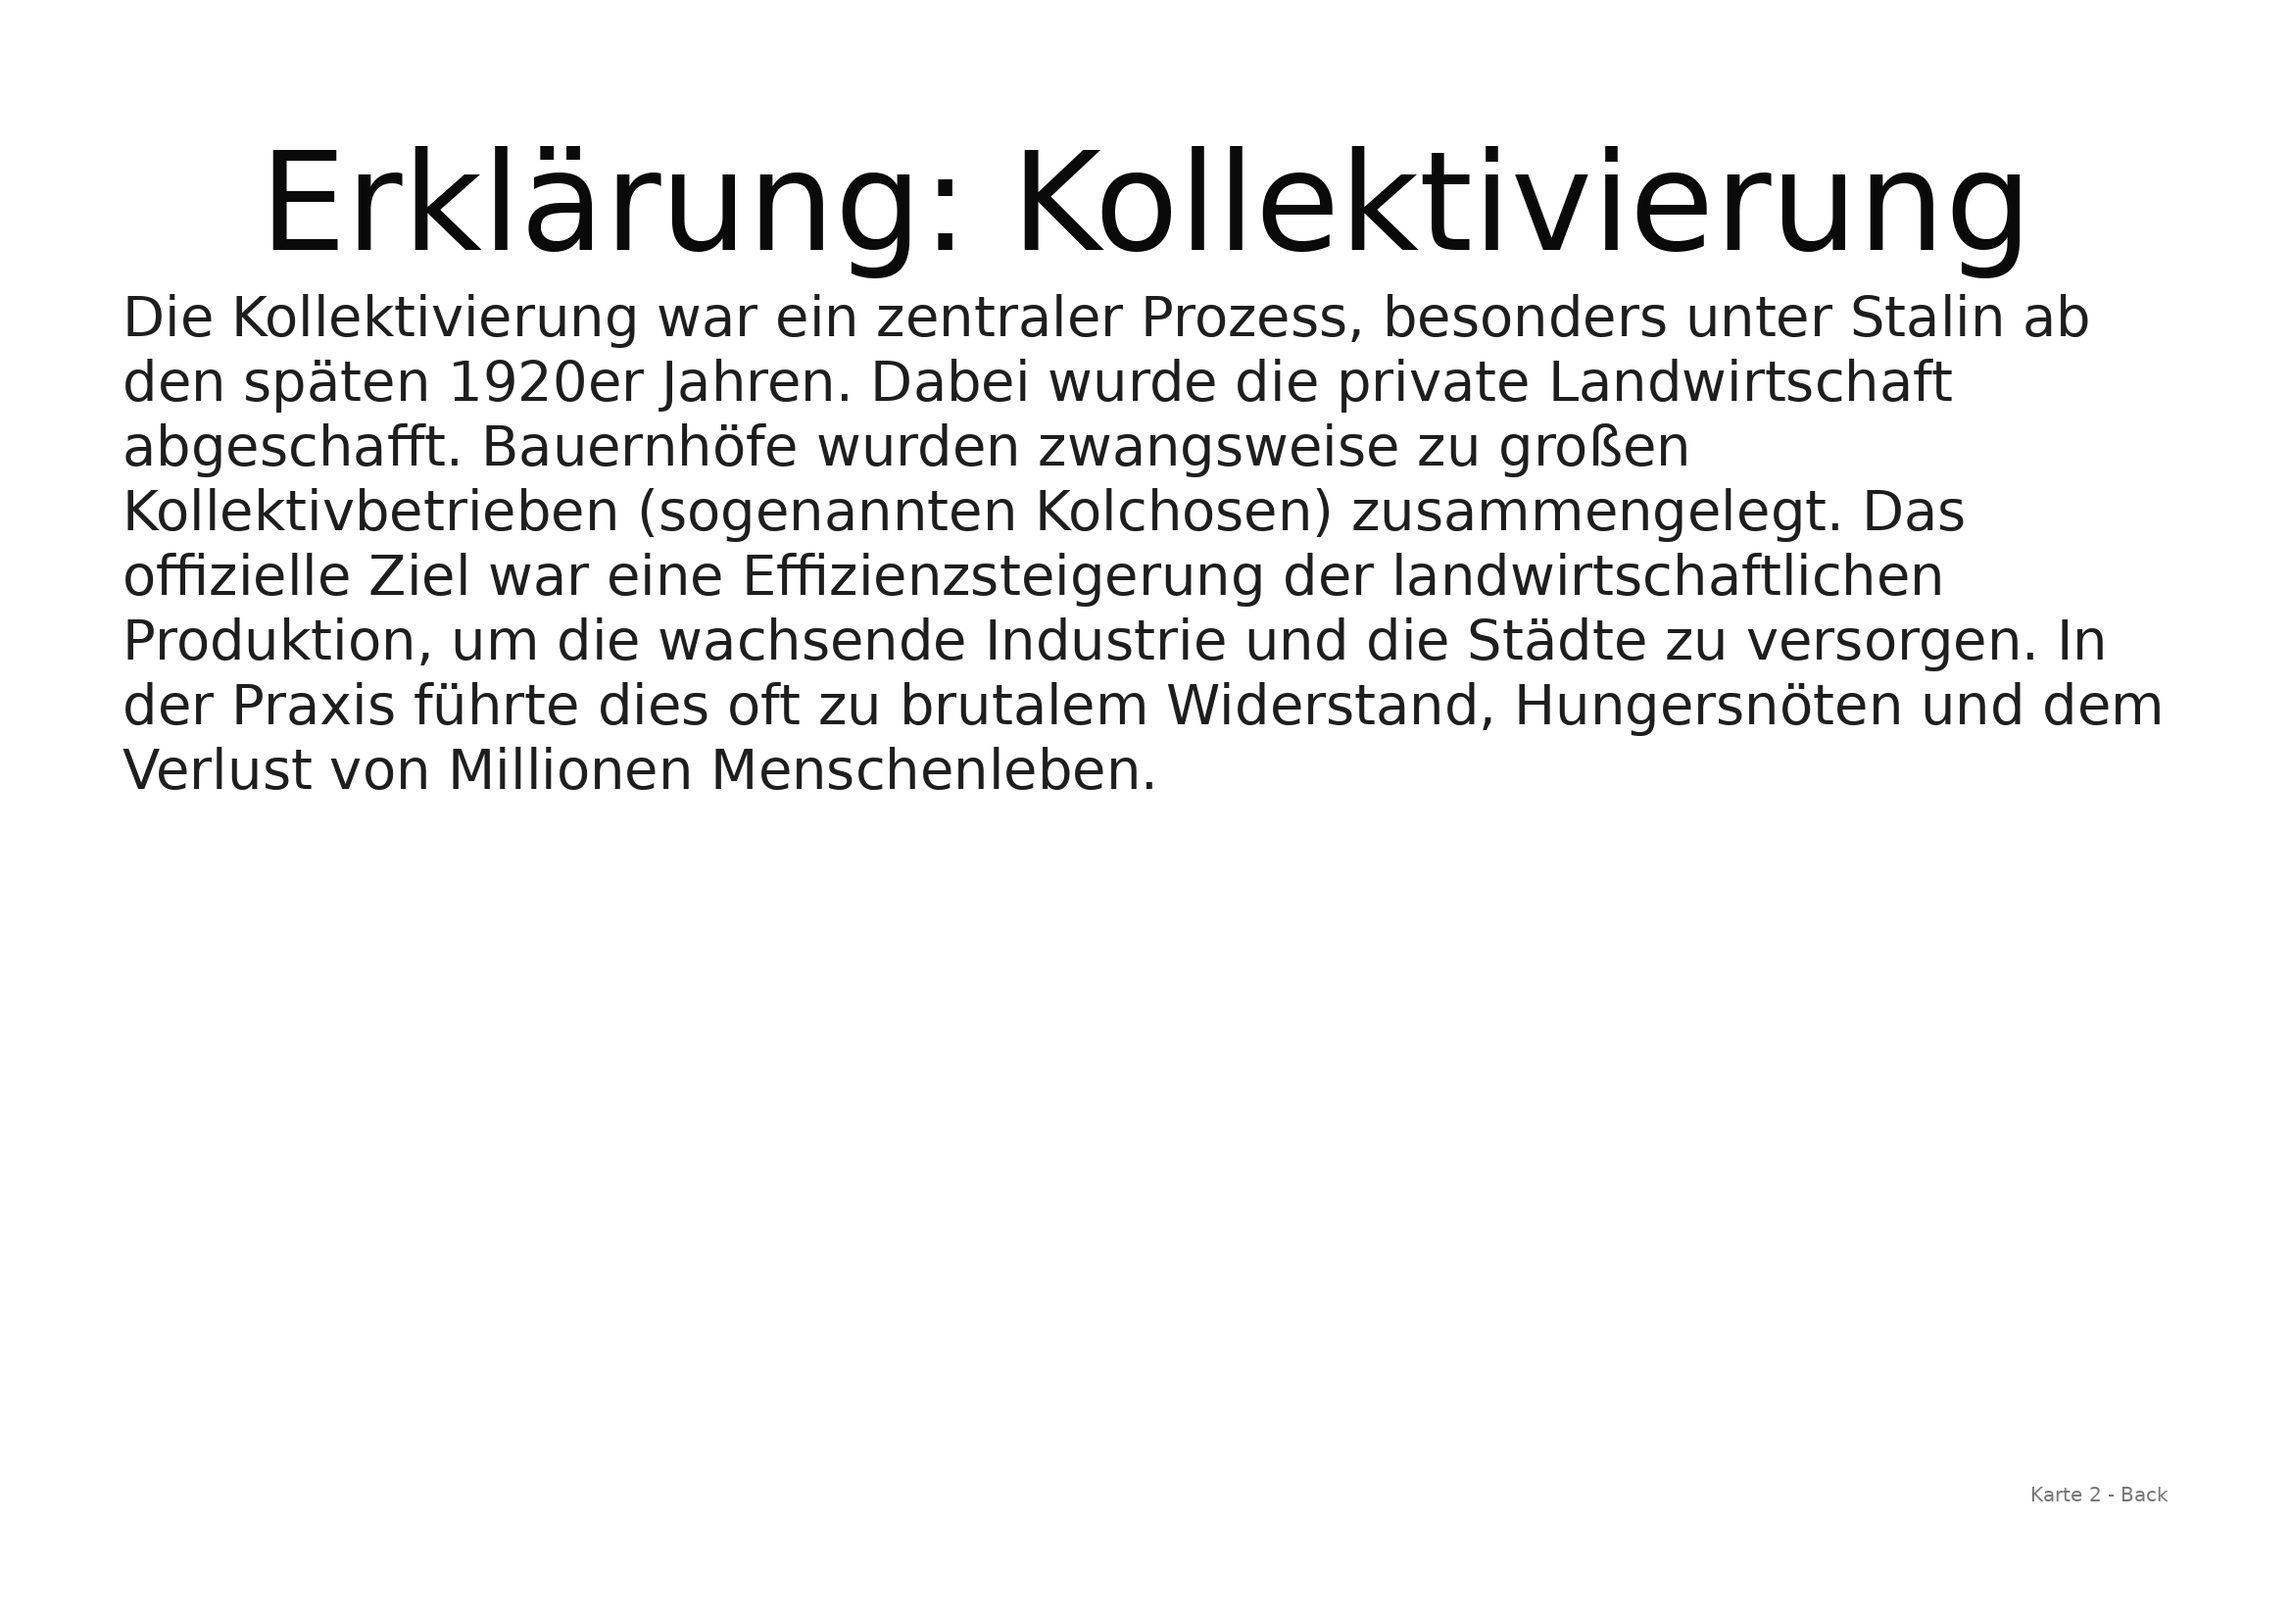
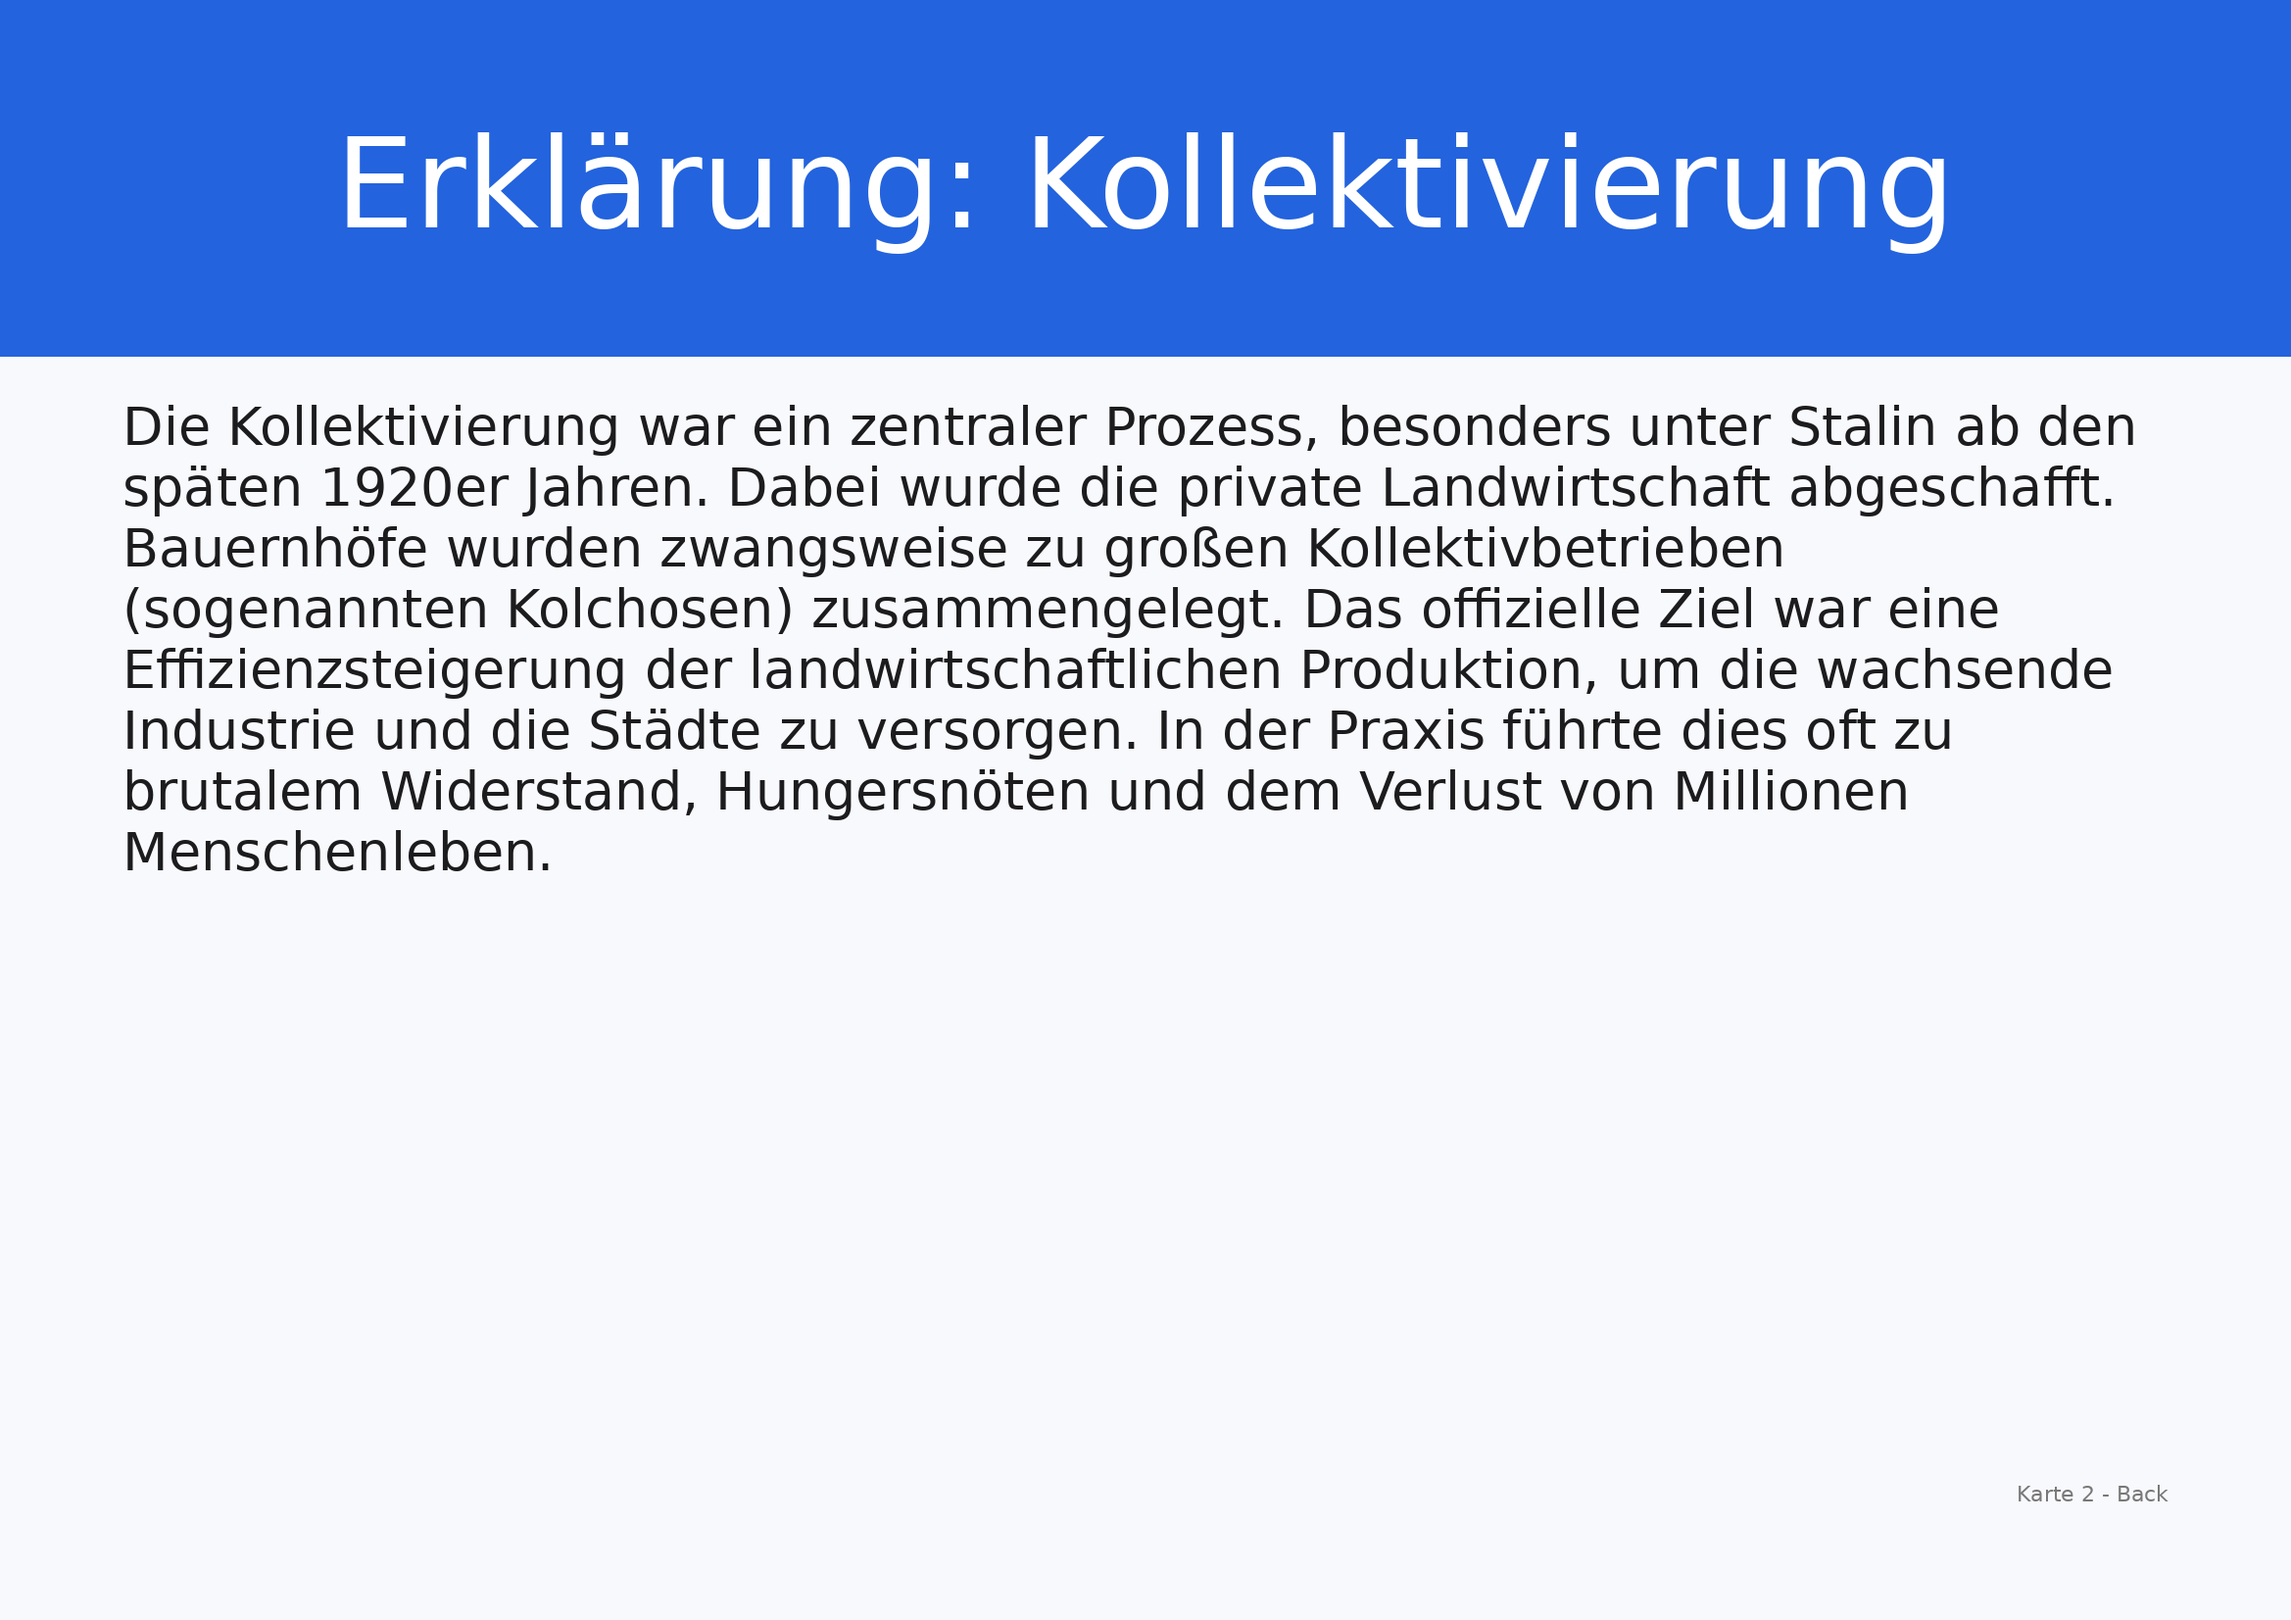
Improve card design with modern color scheme and centered layout

Changed region(s): [[0.0, 0.0, 1.0, 0.5554], [0.8743, 0.8947, 0.9367, 0.9256]]

diff --git a/Main.py b/Main.py
@@ -48,6 +48,13 @@ SHEET_PAGE_SIZE = IMG_SIZE  # für Konsistenz: gleiche Seitengröße wie Einzelk
 SINGLE_SUBDIR = 'single'
 SHEETS_SUBDIR = 'sheets'
 
+# Designfarben (sanftes, modernes Layout)
+BACKGROUND_COLOR = (248, 249, 252)   # leichtes Off-White
+ACCENT_COLOR = (35, 99, 221)          # Blau für Kopfzeile
+TITLE_TEXT_COLOR = (255, 255, 255)    # Weiß in der Kopfzeile
+BODY_TEXT_COLOR = (28, 28, 30)        # fast schwarz
+MUTED_TEXT_COLOR = (120, 120, 120)    # Footer/Hinweise
+
 # ====== Utilities ======
 def sanitize_text(s):
     if not s: return s
@@ -207,24 +214,34 @@ def wrap_by_width(draw, text, font, max_w):
 
 # ====== Renderer (uses truetype if available; if not, prints instructions) ======
 def render_front(struct, idx, fonts):
-    img = Image.new('RGB', IMG_SIZE, 'white'); draw = ImageDraw.Draw(img)
+    img = Image.new('RGB', IMG_SIZE, BACKGROUND_COLOR); draw = ImageDraw.Draw(img)
     title_font, body_font, small_font = fonts
     x, y = MARGIN, MARGIN
     content_w = IMG_SIZE[0] - 2*MARGIN
+    # Kopfzeile
+    header_h = max(120, int(IMG_SIZE[1] * 0.22))
+    draw.rectangle([0,0, IMG_SIZE[0], header_h], fill=ACCENT_COLOR)
     if struct['title']:
         lines = wrap_by_width(draw, struct['title'], title_font, content_w)
+        ty = int(header_h/2)
+        total_h = 0
+        tmp_sizes = []
         for ln in lines:
             w, h = measure_text(draw, ln, title_font)
-            draw.text(((IMG_SIZE[0]-w)//2, y), ln, font=title_font, fill=(10,10,10))
-            y += int(h * 1.1)
-        y += 40
+            tmp_sizes.append((ln,w,h))
+            total_h += int(h*1.1)
+        cur_y = ty - total_h//2
+        for ln, w, h in tmp_sizes:
+            draw.text(((IMG_SIZE[0]-w)//2, cur_y), ln, font=title_font, fill=TITLE_TEXT_COLOR)
+            cur_y += int(h*1.1)
+    y = header_h + 40
     if struct['bullets']:
         for i,b in enumerate(struct['bullets'], start=1):
             prefix = f"{i}. "
             wrapped = wrap_by_width(draw, b, body_font, content_w-80)
             for j, ln in enumerate(wrapped):
                 txt = prefix + ln if j==0 else ' ' * len(prefix) + ln
-                draw.text((x,y), txt, font=body_font, fill=(30,30,30))
+                draw.text((x,y), txt, font=body_font, fill=BODY_TEXT_COLOR)
                 _, h = measure_text(draw, txt, body_font)
                 y += int(h * 1.2)
             y += 22
@@ -232,32 +249,42 @@ def render_front(struct, idx, fonts):
         for p in struct['paragraphs']:
             wrapped = wrap_by_width(draw, p, body_font, content_w)
             for ln in wrapped:
-                draw.text((x,y), ln, font=body_font, fill=(30,30,30))
+                draw.text((x,y), ln, font=body_font, fill=BODY_TEXT_COLOR)
                 _, h = measure_text(draw, ln, body_font)
                 y += int(h * 1.2)
             y += 22
     footer = f'Karte {idx} - Front'
     fw, fh = measure_text(draw, footer, small_font)
-    draw.text((IMG_SIZE[0]-MARGIN-fw, IMG_SIZE[1]-MARGIN-fh), footer, font=small_font, fill=(120,120,120))
+    draw.text((IMG_SIZE[0]-MARGIN-fw, IMG_SIZE[1]-MARGIN-fh), footer, font=small_font, fill=MUTED_TEXT_COLOR)
     return img
 
 def render_back(struct, idx, fonts):
-    img = Image.new('RGB', IMG_SIZE, 'white'); draw = ImageDraw.Draw(img)
+    img = Image.new('RGB', IMG_SIZE, BACKGROUND_COLOR); draw = ImageDraw.Draw(img)
     title_font, body_font, small_font = fonts
     x,y = MARGIN, MARGIN
     content_w = IMG_SIZE[0] - 2*MARGIN
+    # Kopfzeile
+    header_h = max(120, int(IMG_SIZE[1] * 0.22))
+    draw.rectangle([0,0, IMG_SIZE[0], header_h], fill=ACCENT_COLOR)
     if struct['title']:
         lines = wrap_by_width(draw, struct['title'], title_font, content_w)
+        ty = int(header_h/2)
+        total_h = 0
+        tmp_sizes = []
         for ln in lines:
             w, h = measure_text(draw, ln, title_font)
-            draw.text(((IMG_SIZE[0]-w)//2, y), ln, font=title_font, fill=(10,10,10))
-            y += int(h * 1.1)
-        y += 40
+            tmp_sizes.append((ln,w,h))
+            total_h += int(h*1.1)
+        cur_y = ty - total_h//2
+        for ln, w, h in tmp_sizes:
+            draw.text(((IMG_SIZE[0]-w)//2, cur_y), ln, font=title_font, fill=TITLE_TEXT_COLOR)
+            cur_y += int(h*1.1)
+    y = header_h + 40
     if struct['paragraphs']:
         for p in struct['paragraphs']:
             wrapped = wrap_by_width(draw, p, body_font, content_w)
             for ln in wrapped:
-                draw.text((x,y), ln, font=body_font, fill=(30,30,30))
+                draw.text((x,y), ln, font=body_font, fill=BODY_TEXT_COLOR)
                 _, h = measure_text(draw, ln, body_font)
                 y += int(h * 1.2)
             y += 22
@@ -266,15 +293,16 @@ def render_back(struct, idx, fonts):
             wrapped = wrap_by_width(draw, b, body_font, content_w-80)
             for j, ln in enumerate(wrapped):
                 txt = (f'{i}. ' + ln) if j==0 else (' ' * 4 + ln)
-                draw.text((x,y), txt, font=body_font, fill=(30,30,30))
+                draw.text((x,y), txt, font=body_font, fill=BODY_TEXT_COLOR)
                 _, h = measure_text(draw, txt, body_font)
                 y += int(h * 1.2)
             y += 22
     else:
-        draw.text((x, y+40), "(keine Erklärung gefunden)", font=body_font, fill=(160,160,160))
+        # Auf der Rückseite immer ein Hinweis anzeigen – hier etwas prominenter
+        draw.text((x, y+40), "(keine Erklärung gefunden)", font=body_font, fill=MUTED_TEXT_COLOR)
     footer = f'Karte {idx} - Back'
     fw, fh = measure_text(draw, footer, small_font)
-    draw.text((IMG_SIZE[0]-MARGIN-fw, IMG_SIZE[1]-MARGIN-fh), footer, font=small_font, fill=(120,120,120))
+    draw.text((IMG_SIZE[0]-MARGIN-fw, IMG_SIZE[1]-MARGIN-fh), footer, font=small_font, fill=MUTED_TEXT_COLOR)
     return img
 
 def compose_sheet(images, page_size, grid_cols, grid_rows, cell_margin, footer_text=None, fonts=None):
@@ -326,7 +354,9 @@ def main():
     if GENERATE_SHEETS:
         os.makedirs(sheets_dir, exist_ok=True)
     if not PIL_AVAILABLE:
-        print('Pillow nicht verfügbar. Bitte Pillow in Pythonista installieren.'); return
+        # Hinweis präziser gestalten, damit Nutzer schnell handeln kann
+        print('Pillow (PIL) ist nicht verfügbar. Bitte installiere Pillow, z.B. via apt: sudo apt-get install -y python3-pil');
+        return
 
     raw = read_raw(input_path)
     blocks = split_blocks(raw)
@@ -334,7 +364,7 @@ def main():
     print('Gefundene Karten:', len(cards))
 
     # Load fonts: try TTF; if not available, abort with instruction
-    title_size = 140; body_size = 56; small_size = 20
+    title_size = 128; body_size = 54; small_size = 22
     tt_title = load_truetype_or_none(title_size)
     tt_body  = load_truetype_or_none(body_size)
     tt_small = load_truetype_or_none(small_size)
